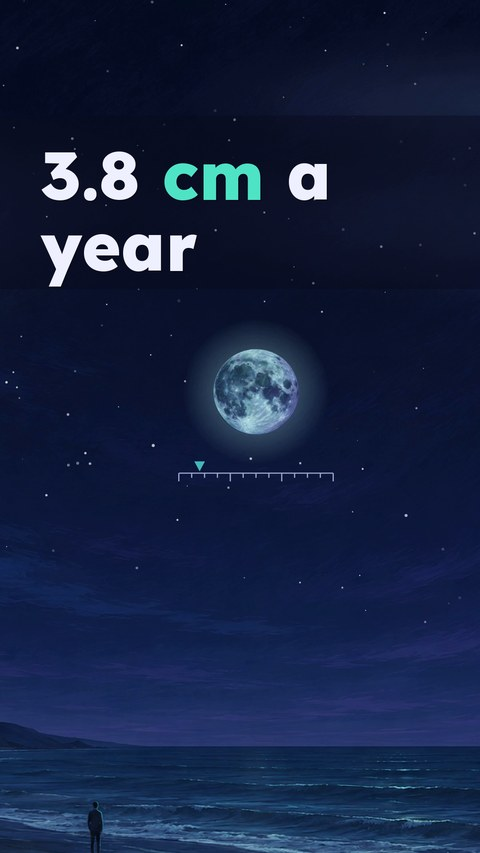
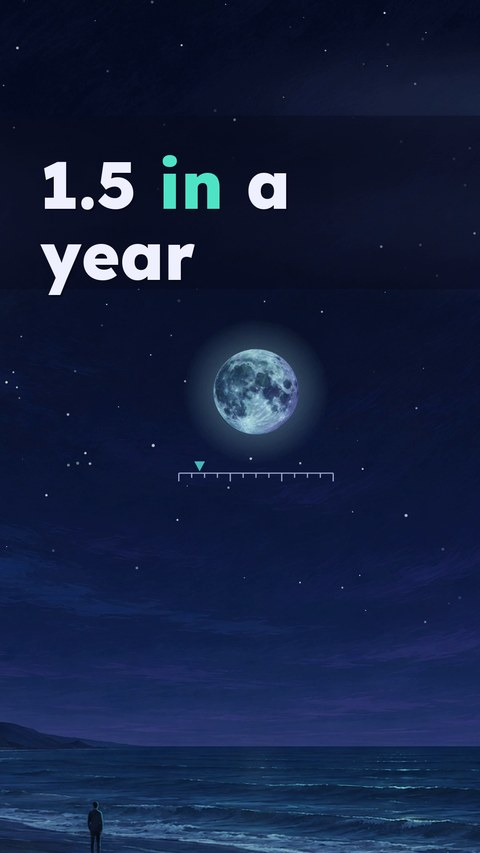
One More Orbit S3 Part 1 cover: "3.8 cm a year" -> "1.5 in a year" (the video now says an inch and a half)
The old words are painted out of the owner's ChatGPT art by diffusion from the band around them; the new words are set in Lexend 800
like the other S3 covers (ep13/cover_p1_fix.py).

Claude-Session: https://claude.ai/code/session_0192s8Y6QVLPvpMXQUNPpnjp

Changed region(s): [[0.3125, 0.1829, 0.6875, 0.2438], [0.0625, 0.2743, 0.4062, 0.3658], [0.0938, 0.1524, 0.2812, 0.2438]]

diff --git a/films/channels/space/ep13/cover_p1_fix.py b/films/channels/space/ep13/cover_p1_fix.py
@@ -1,0 +1,44 @@
+"""One More Orbit S3 Part 1 cover: "3.8 cm a year" -> "1.5 in a year" (3.8 cm = 1.5 in; the video says an inch and a half).
+The cover is the owner's ChatGPT art with the words added in code. The old words (and their shadow) are painted out by diffusion
+from the band around them (a smooth fill plus matching grain), then the new words are set in Lexend 800 like the other S3 covers.
+usage: cover_p1_fix.py <old cover.jpg> <Lexend-VF.ttf> <out dir>"""
+import sys
+import numpy as np
+from PIL import Image, ImageDraw, ImageFilter, ImageFont
+SRC, FONT, OUT = sys.argv[1:4]
+TEAL, WHITE, SHADOW = (79, 227, 198), (238, 240, 255), (8, 10, 28)
+cv = Image.open(SRC).convert("RGB")
+a = np.asarray(cv).astype(np.float32)
+X0, X1, Y0, Y1 = 60, 800, 300, 650
+lum = a[Y0:Y1, X0:X1].mean(2)
+bright = Image.fromarray(((lum > 45) * 255).astype("uint8")).filter(ImageFilter.MaxFilter(27))     # text + shadow, grown 13 px
+M = np.asarray(bright) > 0
+sub = a[Y0:Y1, X0:X1].copy()
+known = ~M
+# Jacobi diffusion: masked pixels relax to the mean of their neighbours; known pixels stay
+fill = sub.copy()
+fill[M] = np.array([sub[known][:, c].mean() for c in range(3)])
+for it in range(2500):
+    p = np.pad(fill, ((1, 1), (1, 1), (0, 0)), mode="edge")
+    avg = (p[:-2, 1:-1] + p[2:, 1:-1] + p[1:-1, :-2] + p[1:-1, 2:]) / 4
+    fill[M] = avg[M]
+rng = np.random.default_rng(5)
+fill[M] += rng.normal(0, 1.1, fill[M].shape)
+a[Y0:Y1, X0:X1] = fill
+cv = Image.fromarray(np.clip(a, 0, 255).astype("uint8"))
+def lex(size, w=800):
+    f = ImageFont.truetype(FONT, size)
+    try: f.set_variation_by_axes([w])
+    except Exception: pass
+    return f
+d = ImageDraw.Draw(cv)
+f = lex(148)
+def words(parts, x, y):
+    for txt, col in parts:
+        d.text((x + 4, y + 4), txt, font=f, fill=SHADOW); d.text((x, y), txt, font=f, fill=col); x += d.textlength(txt, font=f)
+words([("1.5 ", WHITE), ("in", TEAL), (" a", WHITE)], 90, 322)
+words([("year", WHITE)], 90, 482)
+cv.save(f"{OUT}/one-more-orbit-s3-part1-cover.jpg", quality=92)
+cv.resize((480, 853), Image.LANCZOS).save(f"{OUT}/one-more-orbit-s3-part1-cover-480.jpg", quality=88)
+cv.crop((0, 240, 1080, 1680)).save(f"{OUT}/one-more-orbit-s3-part1-cover-grid-3x4.jpg", quality=90)
+print("ok", d.textlength("3.8 cm a", font=f), d.textlength("1.5 in a", font=f))
